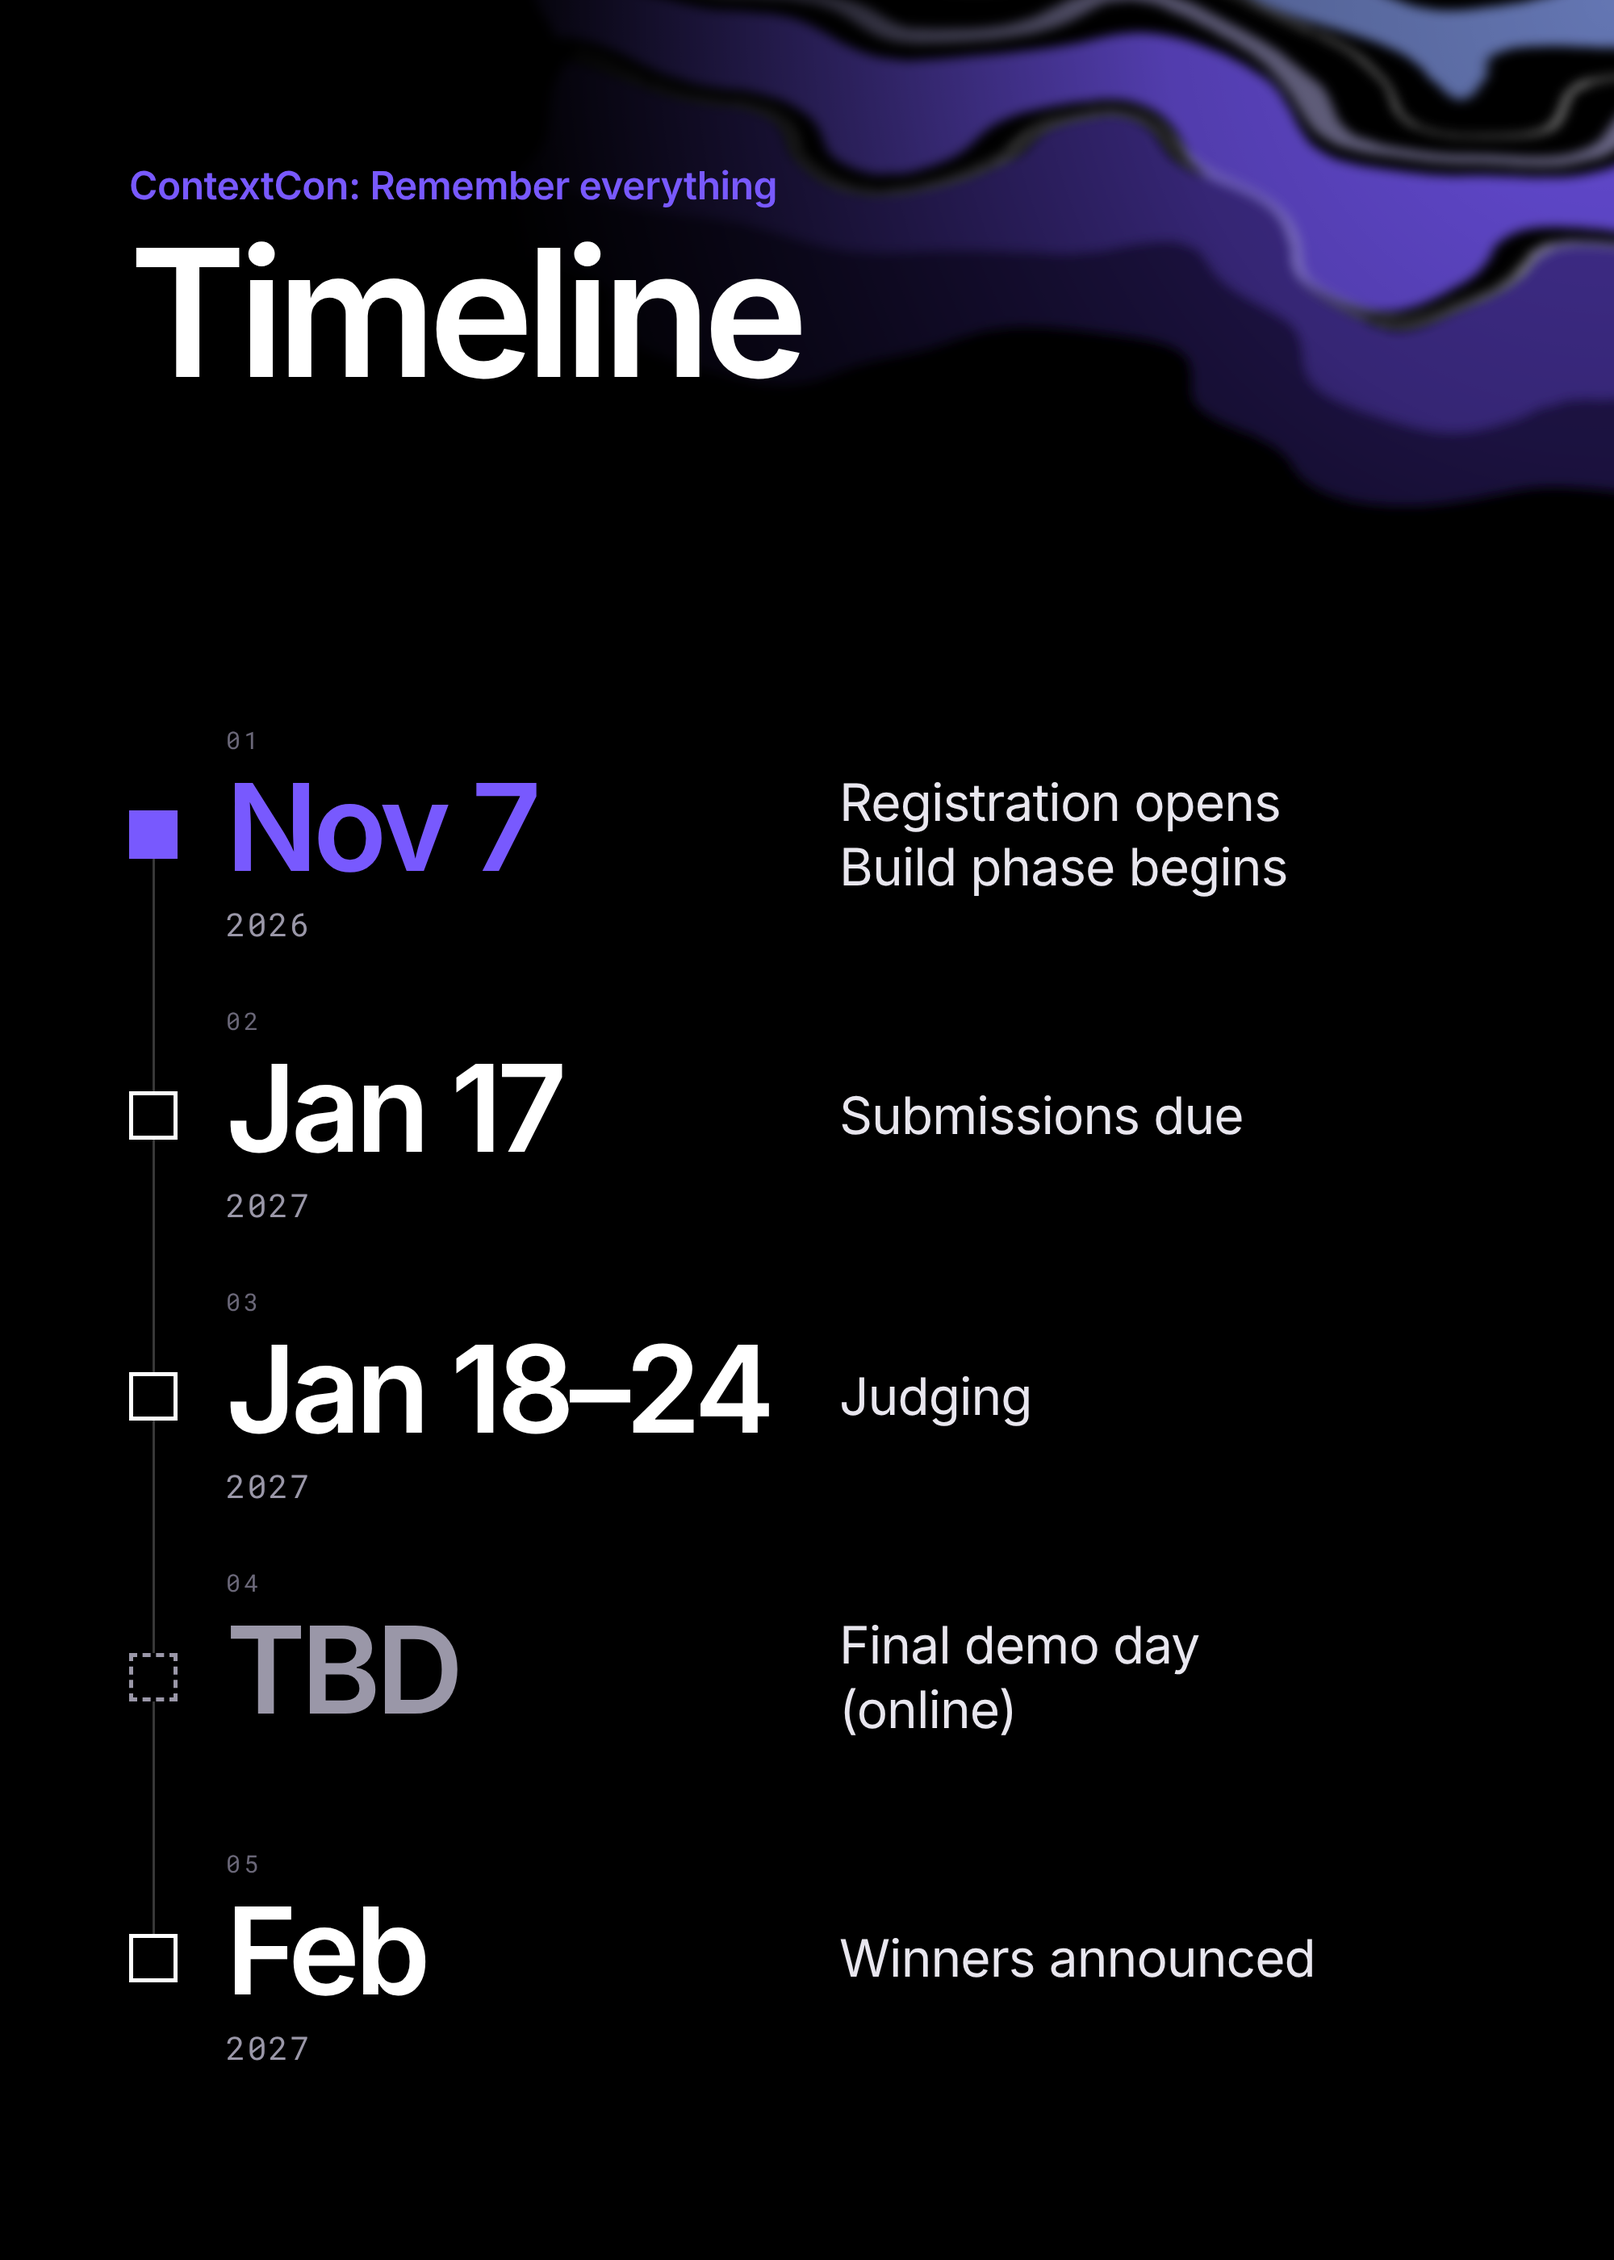
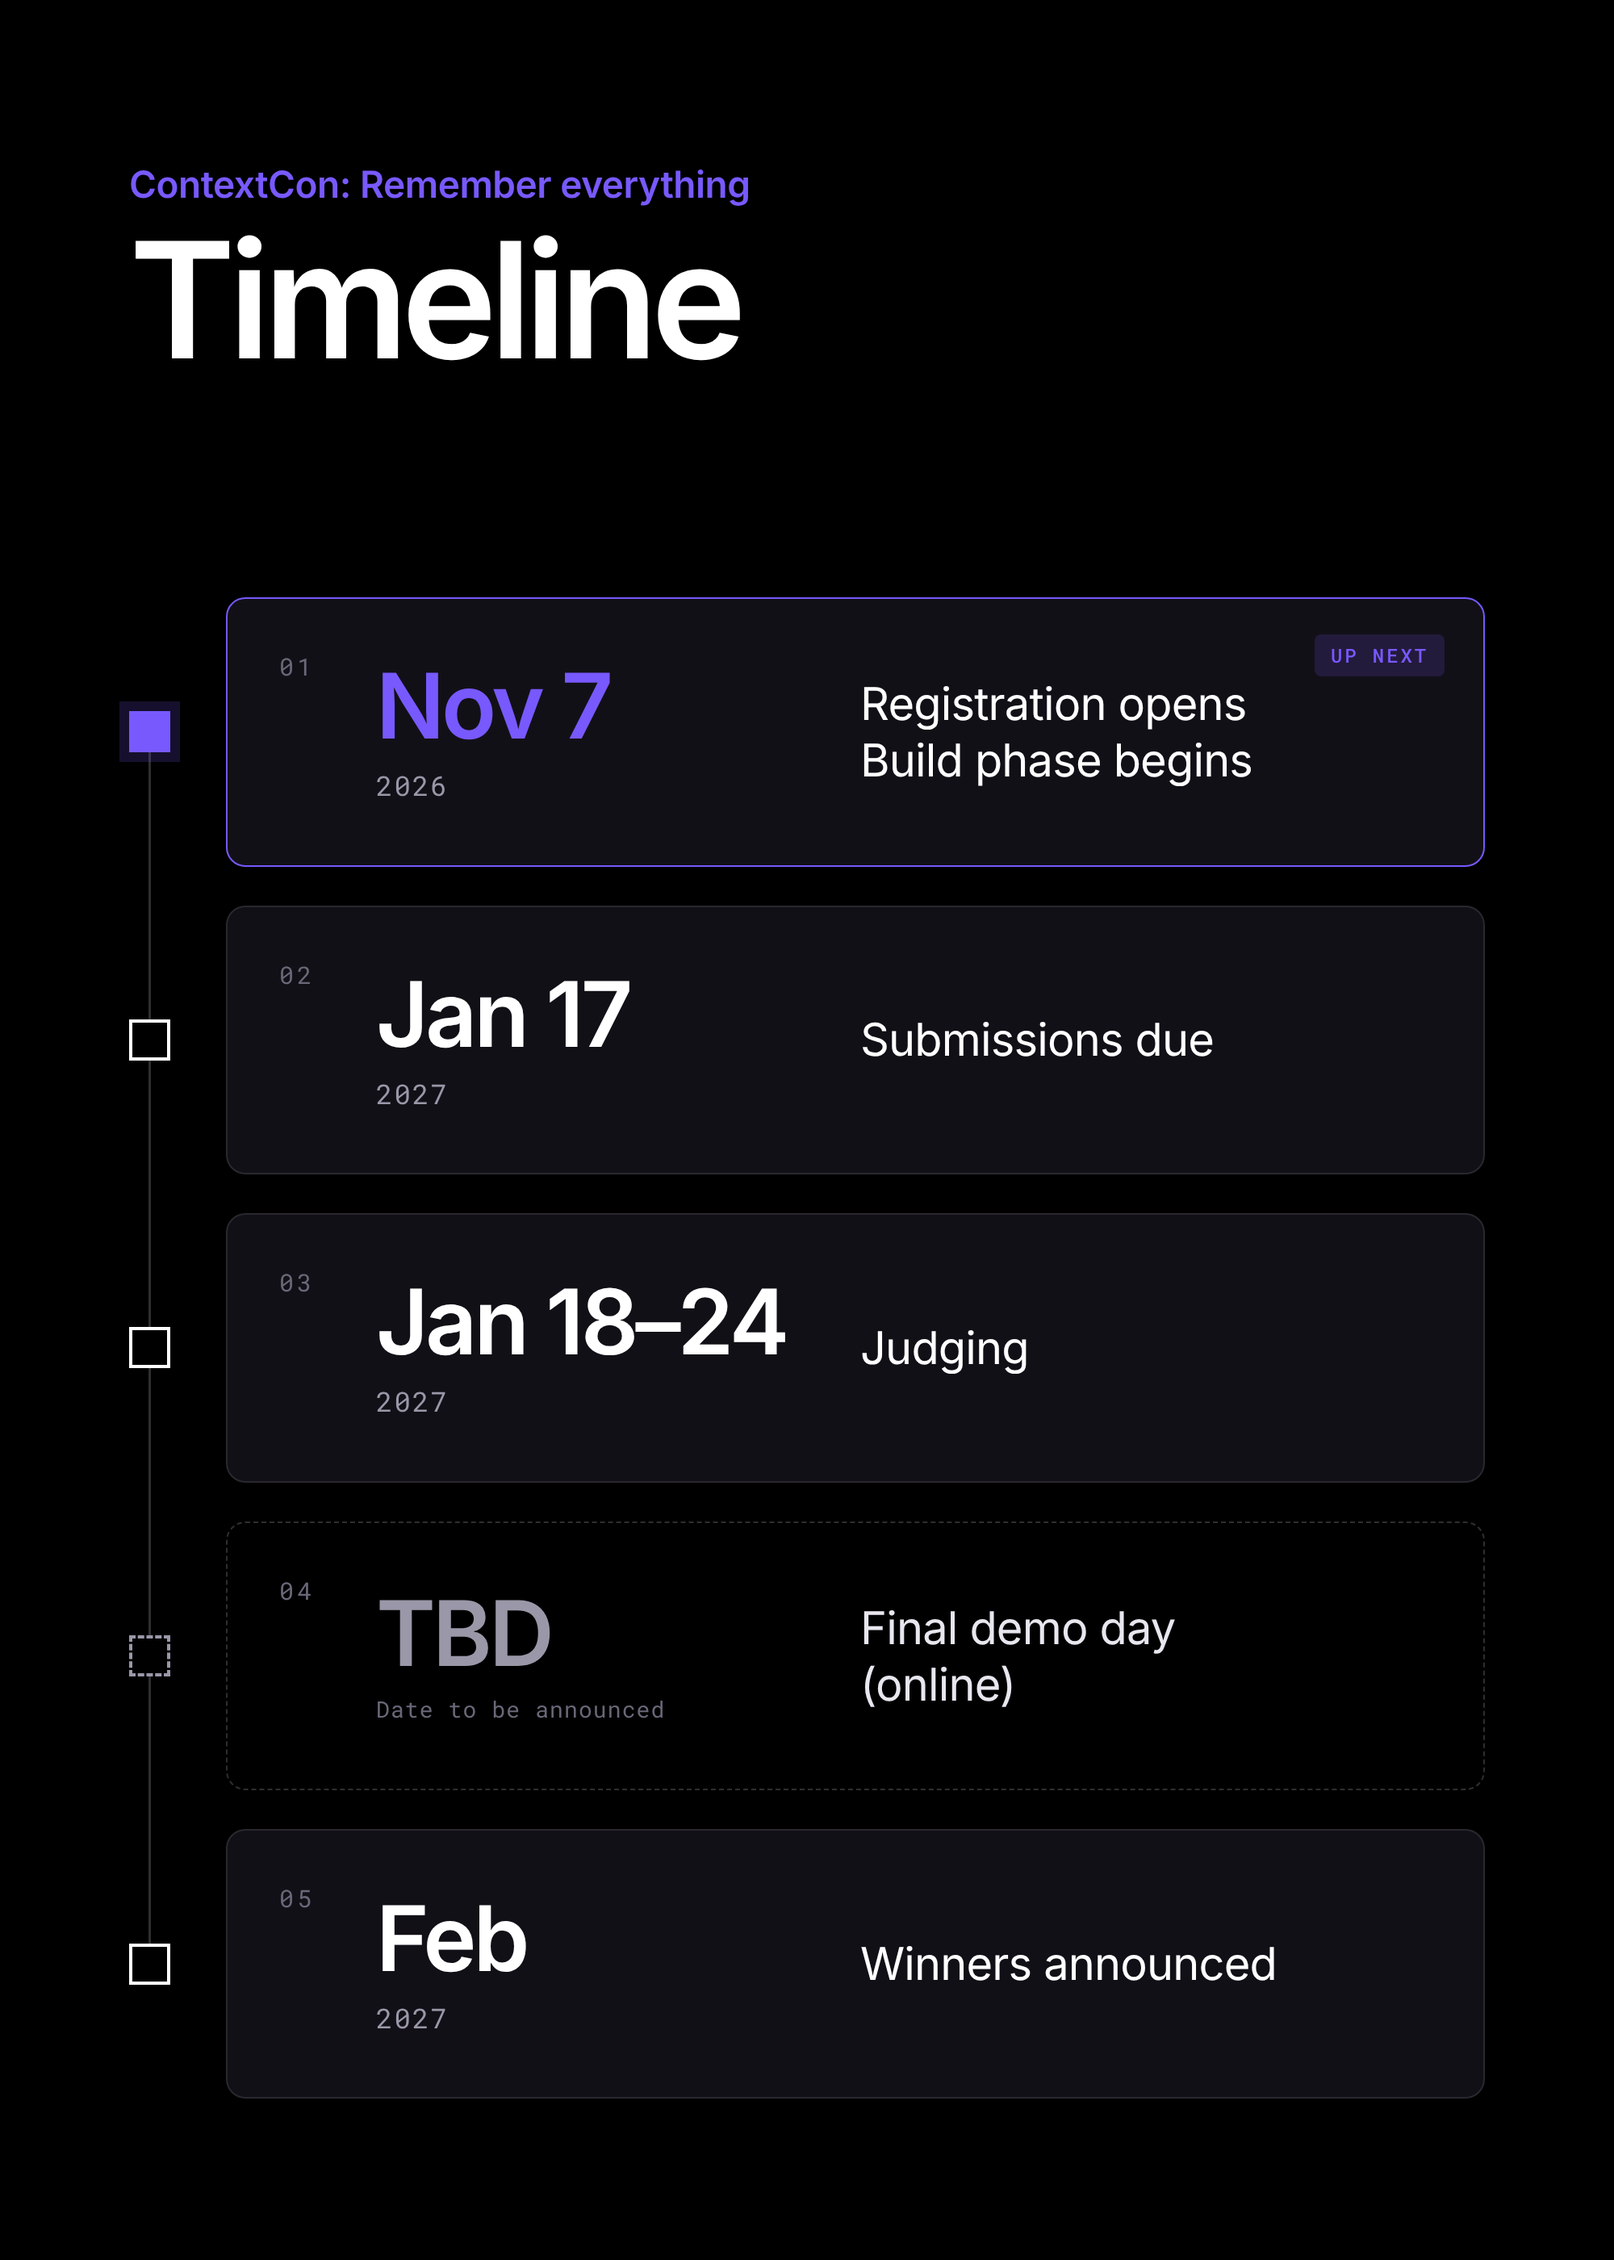
Restyle vertical timeline: panels, smaller dates, no texture
Claude-Session: https://claude.ai/code/session_011WvSfbuXTc2R9BKwTF66Kj

diff --git a/banners/contextcon-timeline-2000x2800.html b/banners/contextcon-timeline-2000x2800.html
@@ -6,97 +6,101 @@
 <title>ContextCon timeline tall</title>
 <link rel="preconnect" href="https://fonts.googleapis.com">
 <link rel="preconnect" href="https://fonts.gstatic.com" crossorigin>
-<link href="https://fonts.googleapis.com/css2?family=Inter:wght@400;600&family=Roboto+Mono:wght@400&display=swap" rel="stylesheet">
+<link href="https://fonts.googleapis.com/css2?family=Inter:wght@400;600&family=Roboto+Mono:wght@400;500&display=swap" rel="stylesheet">
 <style>
 /* Meko brand tokens — from meko-brand-guidelines v0.2 */
 :root{
-  --ground:#000000; --purple:#7859fe; --white:#ffffff;
-  --text:#e8e6ee; --muted:#9a97a8; --dim:#6a6778; --line:rgba(255,255,255,.22);
+  --ground:#000000; --panel:#121017; --purple:#7859fe; --white:#ffffff;
+  --text:#e8e6ee; --muted:#9a97a8; --dim:#6a6778;
+  --line:rgba(255,255,255,.10); --line-2:rgba(255,255,255,.18);
   --sans:'Inter',system-ui,-apple-system,sans-serif; --mono:'Roboto Mono',ui-monospace,monospace;
 }
 *{box-sizing:border-box}
 html,body{margin:0;background:var(--ground)}
 body{min-height:100vh;display:grid;place-items:center;-webkit-font-smoothing:antialiased}
 .tl{position:relative;width:2000px;height:2800px;overflow:hidden;background:var(--ground);font-family:var(--sans);color:var(--text)}
-.tex{position:absolute;left:0;top:0;width:2000px;height:1400px;display:block}
-header{position:absolute;left:160px;top:200px}
-.eyebrow{margin:0;font-size:48px;font-weight:600;letter-spacing:-.01em;color:var(--purple)}
-h1{margin:24px 0 0;font-size:220px;line-height:.95;font-weight:600;letter-spacing:-.045em;color:var(--white)}
-ol{list-style:none;margin:0;padding:0;position:absolute;left:160px;right:160px;top:860px;bottom:200px;
-   display:grid;grid-template-rows:repeat(5,1fr)}
-/* the vertical rule runs node-centre to node-centre */
-ol::before{content:'';position:absolute;left:28.5px;width:3px;top:calc(10% - 0px);bottom:calc(10% - 0px);background:var(--line)}
-.step{position:relative;display:grid;grid-template-columns:120px 760px 1fr;align-items:center}
-.node{position:relative;width:60px;height:60px;background:var(--ground);border:5px solid var(--white)}
-.next .node{background:var(--purple);border-color:var(--purple)}
+
+header{position:absolute;left:160px;right:160px;top:200px}
+.eyebrow{margin:0;font-size:46px;font-weight:600;letter-spacing:-.01em;color:var(--purple)}
+h1{margin:20px 0 0;font-size:200px;line-height:.95;font-weight:600;letter-spacing:-.045em;color:var(--white)}
+
+ol{list-style:none;margin:0;padding:0;position:absolute;left:160px;right:160px;top:740px;bottom:200px;
+   display:grid;grid-template-rows:repeat(5,1fr);row-gap:48px}
+/* vertical rule: first node centre to last node centre */
+ol::before{content:'';position:absolute;left:24px;width:3px;top:166px;bottom:166px;background:var(--line-2)}
+.step{position:relative;display:grid;grid-template-columns:120px 1fr;align-items:center}
+.node{position:relative;width:51px;height:51px;background:var(--ground);border:4px solid var(--white)}
+.next .node{background:var(--purple);border-color:var(--purple);box-shadow:0 0 0 12px rgba(120,89,254,.18)}
 .tbd .node{border-style:dashed;border-color:var(--muted)}
+
+.card{position:relative;height:100%;display:grid;grid-template-columns:120px 600px 1fr;align-items:center;
+   background:var(--panel);border:2px solid var(--line);border-radius:24px;padding:0 64px}
+.next .card{border-color:var(--purple)}
+.tbd .card{background:transparent;border:2px dashed var(--line-2)}
+.n{align-self:start;margin-top:64px;font-family:var(--mono);font-size:30px;letter-spacing:.14em;color:var(--dim)}
 .when{display:flex;flex-direction:column}
-.n{font-family:var(--mono);font-size:30px;letter-spacing:.14em;color:var(--dim);margin-bottom:18px}
-.d{font-size:150px;line-height:.95;font-weight:600;letter-spacing:-.04em;color:var(--white);white-space:nowrap}
-.y{margin-top:22px;font-family:var(--mono);font-size:40px;letter-spacing:.06em;color:var(--muted)}
+.d{font-size:112px;line-height:1;font-weight:600;letter-spacing:-.035em;color:var(--white);white-space:nowrap}
 .next .d{color:var(--purple)}
 .tbd .d{color:var(--muted)}
-.l{margin:0;font-size:64px;line-height:1.25;letter-spacing:-.015em;color:var(--text)}
+.y{margin-top:20px;font-family:var(--mono);font-size:34px;letter-spacing:.06em;color:var(--muted)}
+.tbd .y{font-size:28px;letter-spacing:.04em;color:var(--dim)}
+.l{margin:0;font-size:56px;line-height:1.25;letter-spacing:-.015em;color:var(--white)}
+.tbd .l{color:var(--text)}
+.pill{position:absolute;top:44px;right:48px;font-family:var(--mono);font-size:24px;font-weight:500;letter-spacing:.12em;
+   text-transform:uppercase;padding:10px 20px;border-radius:8px;background:rgba(120,89,254,.16);color:var(--purple)}
 </style>
 </head>
 <body>
 <main class="tl" aria-label="ContextCon timeline">
-  <svg class="tex" viewBox="0 0 2000 1400" aria-hidden="true">
-    <defs>
-      <filter id="marble" x="-10%" y="-10%" width="120%" height="120%">
-        <feTurbulence type="fractalNoise" baseFrequency="0.0022 0.005" numOctaves="2" seed="23" result="n"/>
-        <feDisplacementMap in="SourceGraphic" in2="n" scale="240" xChannelSelector="R" yChannelSelector="G" result="d"/>
-        <feGaussianBlur in="d" stdDeviation="7"/>
-      </filter>
-      <radialGradient id="fade" cx="1" cy="0" r=".7" gradientTransform="translate(1 0) scale(1 1.43) translate(-1 0)">
-        <stop offset="0" stop-color="#fff" stop-opacity="1"/>
-        <stop offset=".4" stop-color="#fff" stop-opacity=".8"/>
-        <stop offset="1" stop-color="#fff" stop-opacity="0"/>
-      </radialGradient>
-      <mask id="m"><rect width="2000" height="1400" fill="url(#fade)"/></mask>
-    </defs>
-    <g mask="url(#m)"><g filter="url(#marble)">
-      <path d="M620 -300 C1200 -200 1380 -340 1580 -160 S1880 -70 2140 -140" stroke="#e9e6ff" stroke-width="24" fill="none" opacity="0.6"/>
-<path d="M620 -180 C1200 -80 1380 -220 1580 -40 S1880 50 2140 -20" stroke="#8ea8ff" stroke-width="80" fill="none" opacity="0.7"/>
-<path d="M620 -50 C1200 50 1380 -90 1580 90 S1880 180 2140 110" stroke="#c9c2ff" stroke-width="20" fill="none" opacity="0.55"/>
-<path d="M620 50 C1200 150 1380 10 1580 190 S1880 280 2140 210" stroke="#7859fe" stroke-width="120" fill="none" opacity="0.85"/>
-<path d="M620 190 C1200 290 1380 150 1580 330 S1880 420 2140 350" stroke="#4a35a2" stroke-width="110" fill="none" opacity="0.9"/>
-<path d="M620 310 C1200 410 1380 270 1580 450 S1880 540 2140 470" stroke="#20154f" stroke-width="140" fill="none" opacity="1"/>
-<path d="M640 -100 C1220 0 1400 -140 1600 40 S1900 130 2140 60" stroke="#fff" stroke-width="4" fill="none" opacity="0.6"/>
-<path d="M640 130 C1220 230 1400 90 1600 270 S1900 360 2140 290" stroke="#fff" stroke-width="4" fill="none" opacity="0.45"/>
-    </g></g>
-  </svg>
-
   <header>
     <p class="eyebrow">ContextCon: Remember everything</p>
     <h1>Timeline</h1>
   </header>
-
   <ol>
     <li class="step next">
       <span class="node" aria-hidden="true"></span>
-      <div class="when"><span class="n">01</span><time class="d">Nov 7</time><span class="y">2026</span></div>
-      <p class="l">Registration opens<br>Build phase begins</p>
+      <div class="card">
+        <span class="n">01</span>
+        <div class="when"><time class="d">Nov 7</time><span class="y">2026</span></div>
+        <p class="l">Registration opens<br>Build phase begins</p>
+        <span class="pill">Up next</span>
+      </div>
     </li>
     <li class="step ">
       <span class="node" aria-hidden="true"></span>
-      <div class="when"><span class="n">02</span><time class="d">Jan 17</time><span class="y">2027</span></div>
-      <p class="l">Submissions due</p>
+      <div class="card">
+        <span class="n">02</span>
+        <div class="when"><time class="d">Jan 17</time><span class="y">2027</span></div>
+        <p class="l">Submissions due</p>
+        
+      </div>
     </li>
     <li class="step ">
       <span class="node" aria-hidden="true"></span>
-      <div class="when"><span class="n">03</span><time class="d">Jan 18–24</time><span class="y">2027</span></div>
-      <p class="l">Judging</p>
+      <div class="card">
+        <span class="n">03</span>
+        <div class="when"><time class="d">Jan 18–24</time><span class="y">2027</span></div>
+        <p class="l">Judging</p>
+        
+      </div>
     </li>
     <li class="step tbd">
       <span class="node" aria-hidden="true"></span>
-      <div class="when"><span class="n">04</span><time class="d">TBD</time><span class="y">&nbsp;</span></div>
-      <p class="l">Final demo day<br>(online)</p>
+      <div class="card">
+        <span class="n">04</span>
+        <div class="when"><time class="d">TBD</time><span class="y">Date to be announced</span></div>
+        <p class="l">Final demo day<br>(online)</p>
+        
+      </div>
     </li>
     <li class="step ">
       <span class="node" aria-hidden="true"></span>
-      <div class="when"><span class="n">05</span><time class="d">Feb</time><span class="y">2027</span></div>
-      <p class="l">Winners announced</p>
+      <div class="card">
+        <span class="n">05</span>
+        <div class="when"><time class="d">Feb</time><span class="y">2027</span></div>
+        <p class="l">Winners announced</p>
+        
+      </div>
     </li>
   </ol>
 </main>
